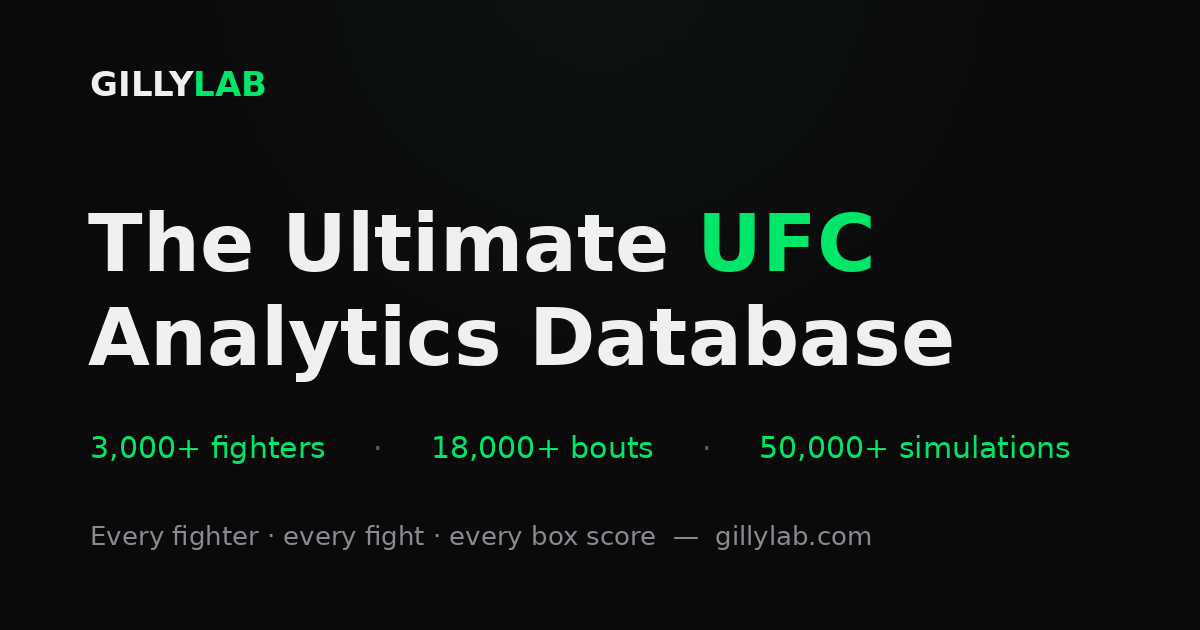
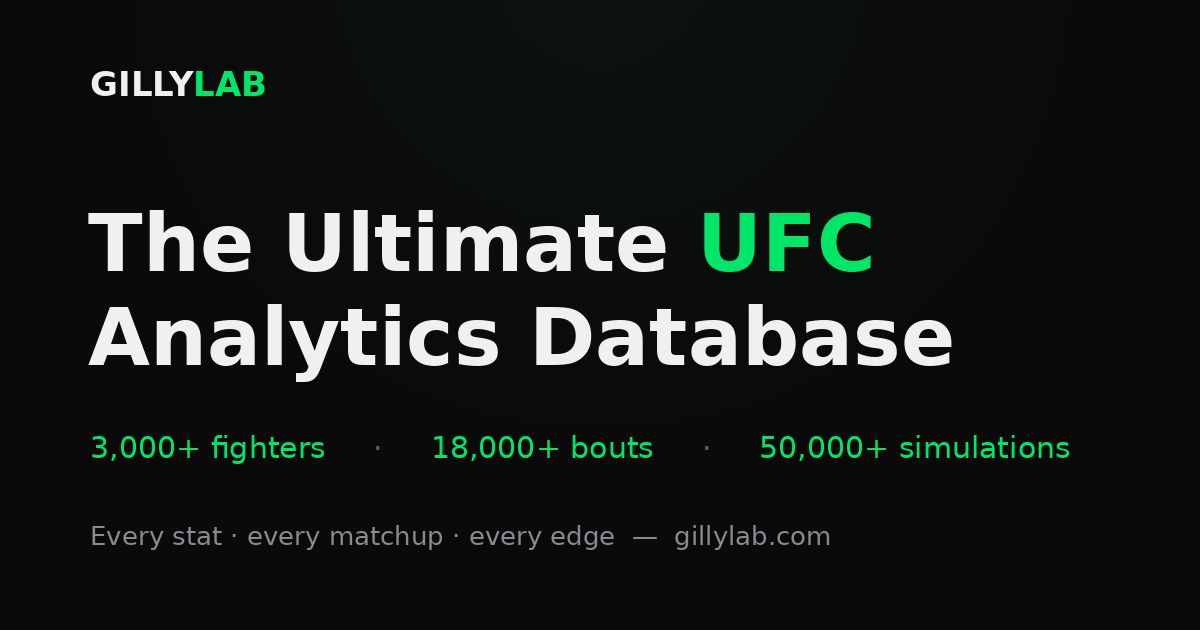
Hero badge -> EVERY STAT · EVERY MATCHUP · EVERY EDGE; refresh OG image tagline to match

Changed region(s): [[0.1233, 0.8143, 0.74, 0.8746]]

diff --git a/worker/pages.js b/worker/pages.js
@@ -215,7 +215,7 @@ export const landingPage = () => `<!doctype html><html lang="en"><head>
   </nav>
 
   <header class="hero">
-    <div class="badge">EVERY FIGHTER · EVERY FIGHT · EVERY BOX SCORE</div>
+    <div class="badge">EVERY STAT · EVERY MATCHUP · EVERY EDGE</div>
     <h1 class="hh">The Ultimate <span class="a">UFC</span><br>Analytics Database</h1>
     <p class="sub">Deep analytics for every fighter and every bout, a fight simulator that predicts winner and method, career accolades, live/historical odds, one-click tape study, and weekly roster updates — all in one place.</p>
     <div class="stats">
